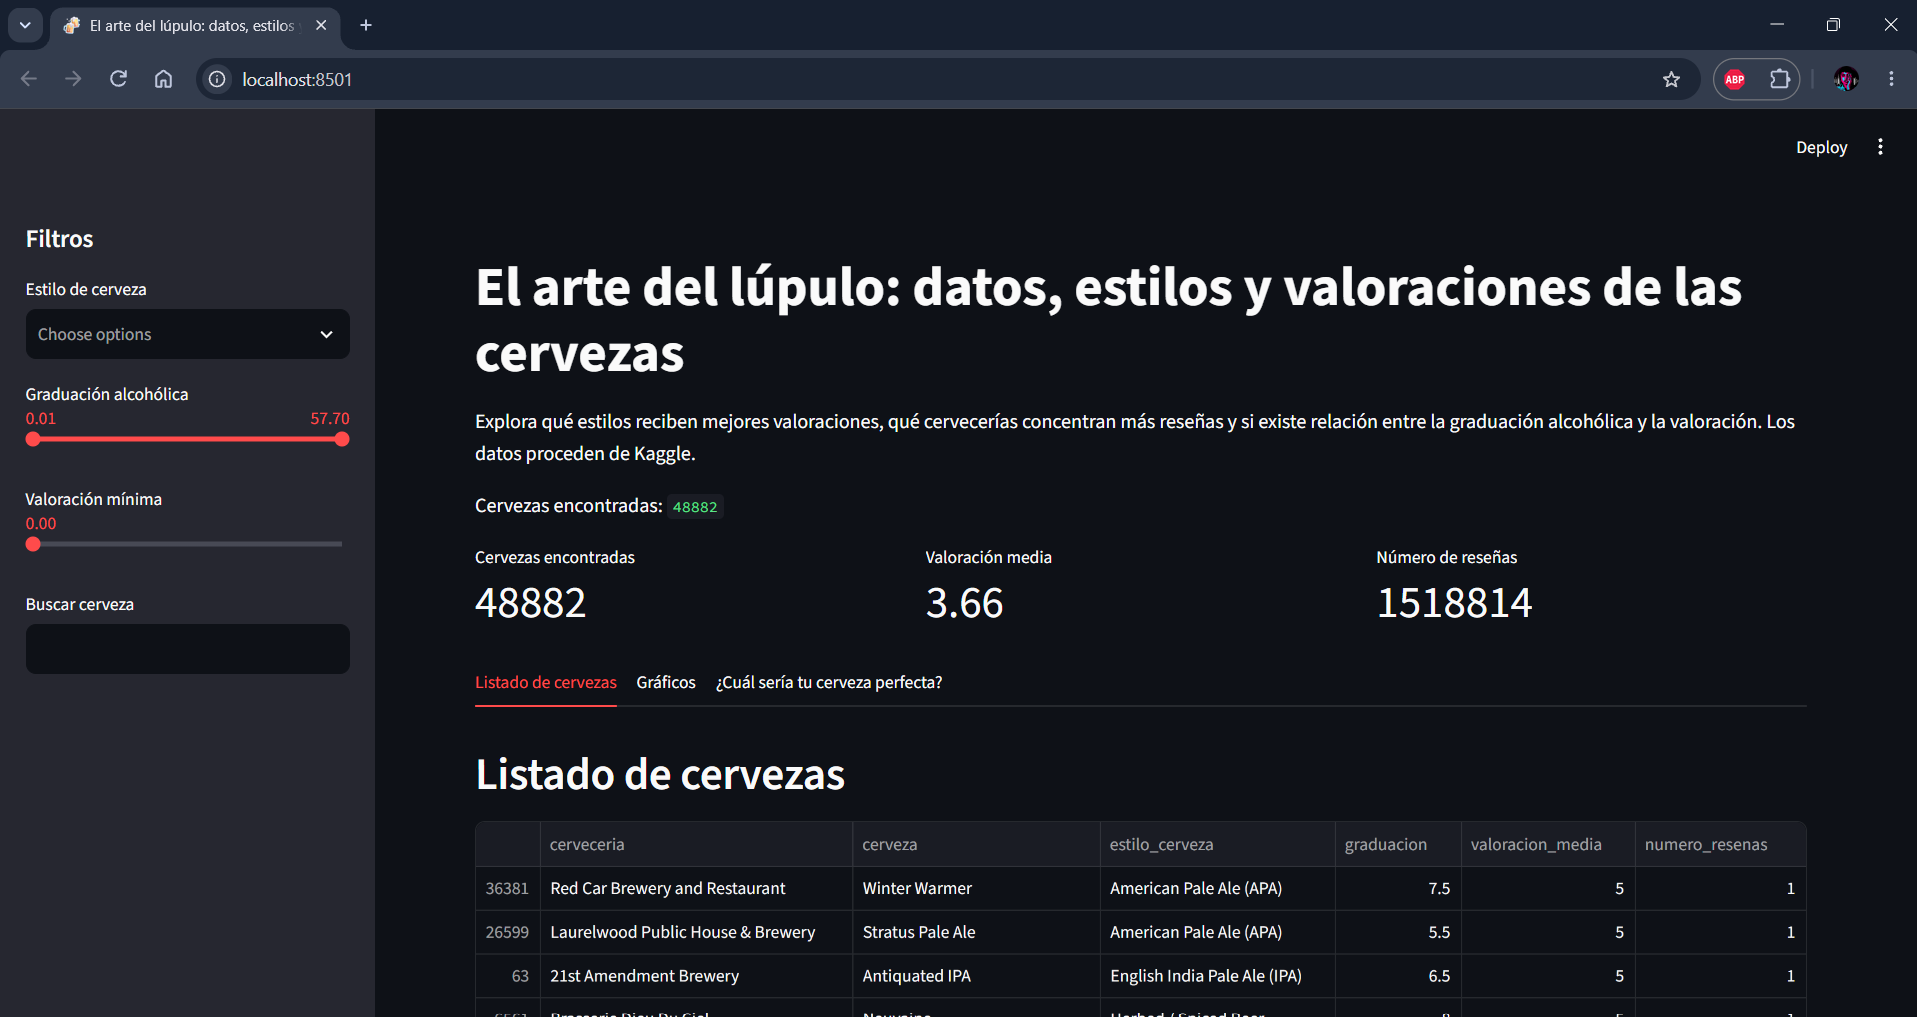
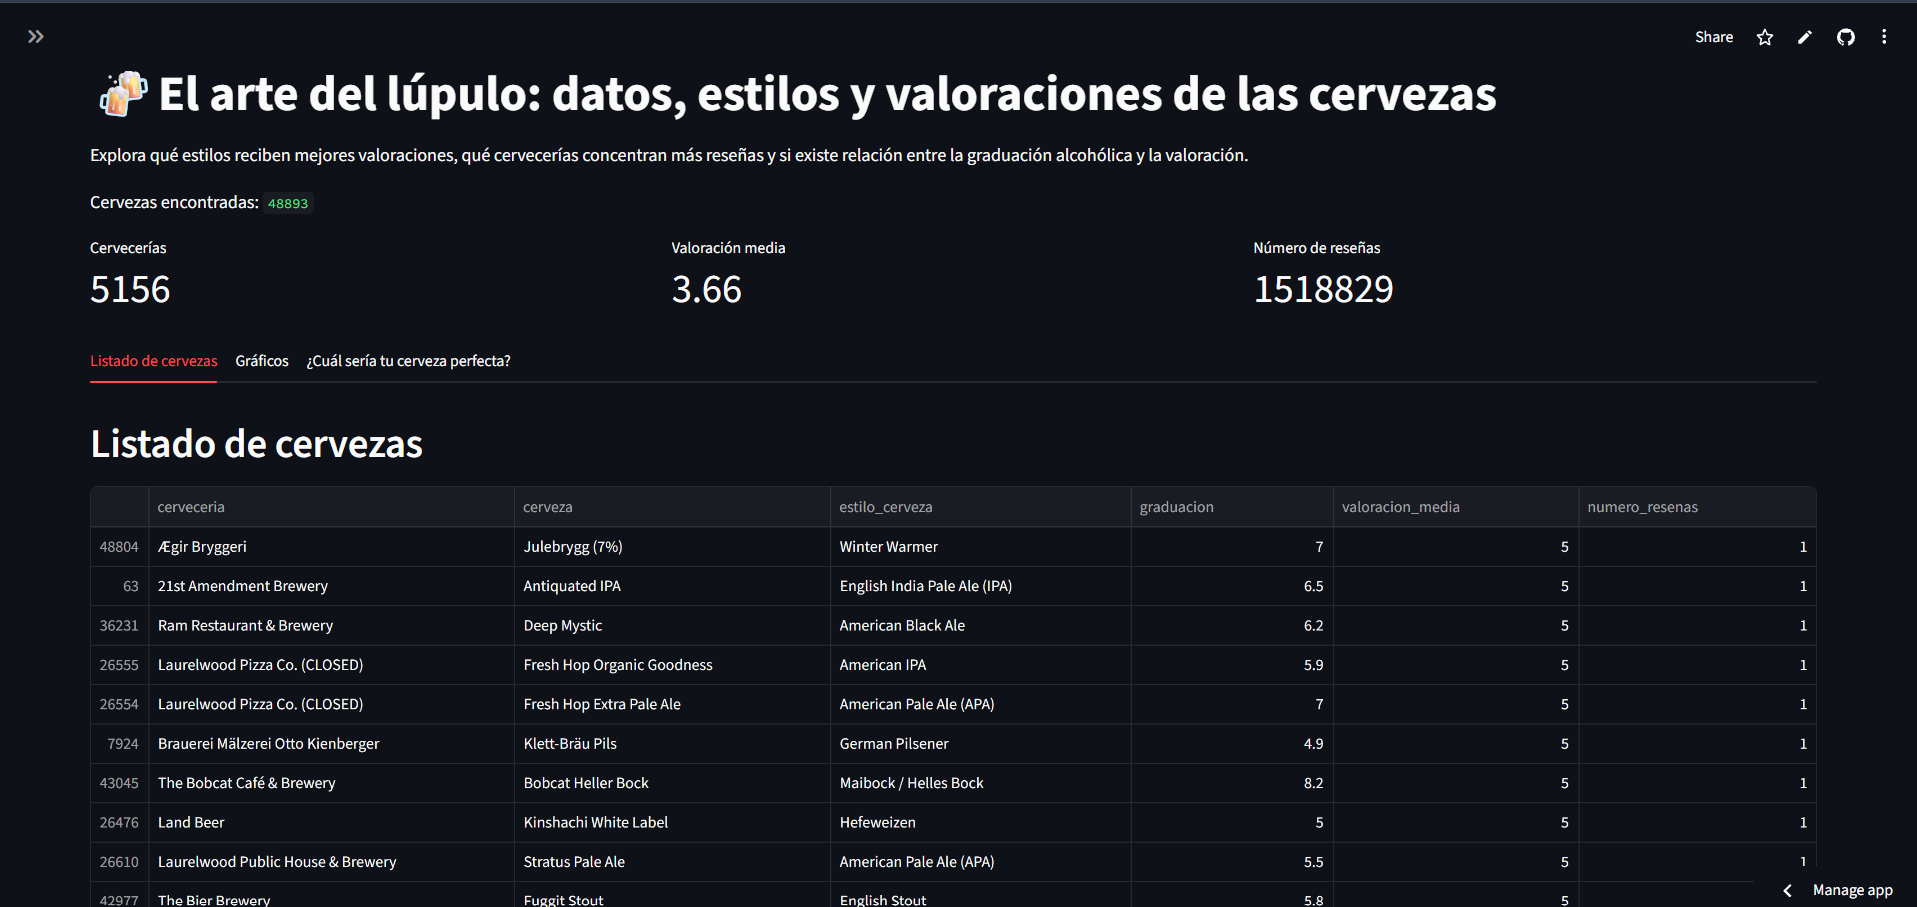
capturas

diff --git a/README.md b/README.md
@@ -39,6 +39,8 @@ Para responderlo, investigaré tres cuestiones:
 
 ![La app](capturas/app.png)
 
+![Filtros](capturas/filtros.png)
+
 ![Gráficos](capturas/gráficos.png)
 
 ![Cerveza perfecta](capturas/cerveza_perfecta.png)
